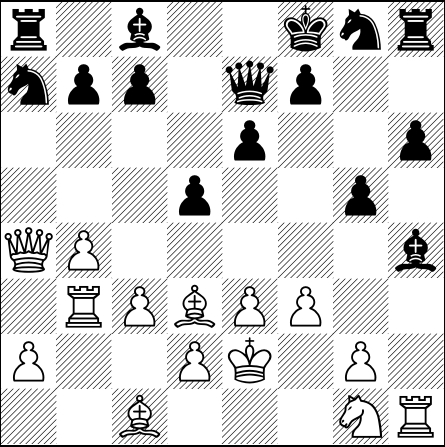
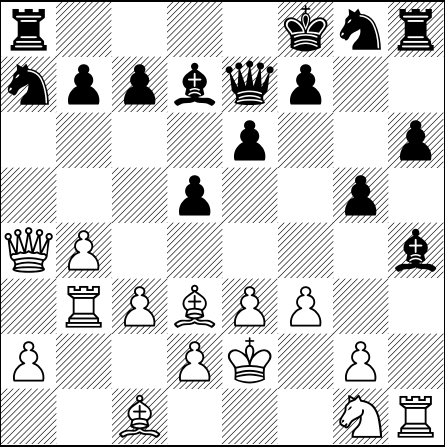
[automated] Regenerate text/pdf for chessboard

Changed region(s): [[0.2629, 0.0, 0.3798, 0.1163], [0.3798, 0.1454, 0.4966, 0.2327]]

diff --git a/default_filepath.tex b/default_filepath.tex
@@ -13,6 +13,6 @@
 \normalsize%
 \setchessboard{showmover=false}%
 \newgame%
-\fenboard{r1b2knr/npp1qp2/4p2p/3p2p1/QP5b/1RPBPP2/P2PK1P1/2B3NR b - - 1 14}%
+\fenboard{r4knr/nppbqp2/4p2p/3p2p1/QP5b/1RPBPP2/P2PK1P1/2B3NR w - - 2 15}%
 \chessboard%
 \end{document}
